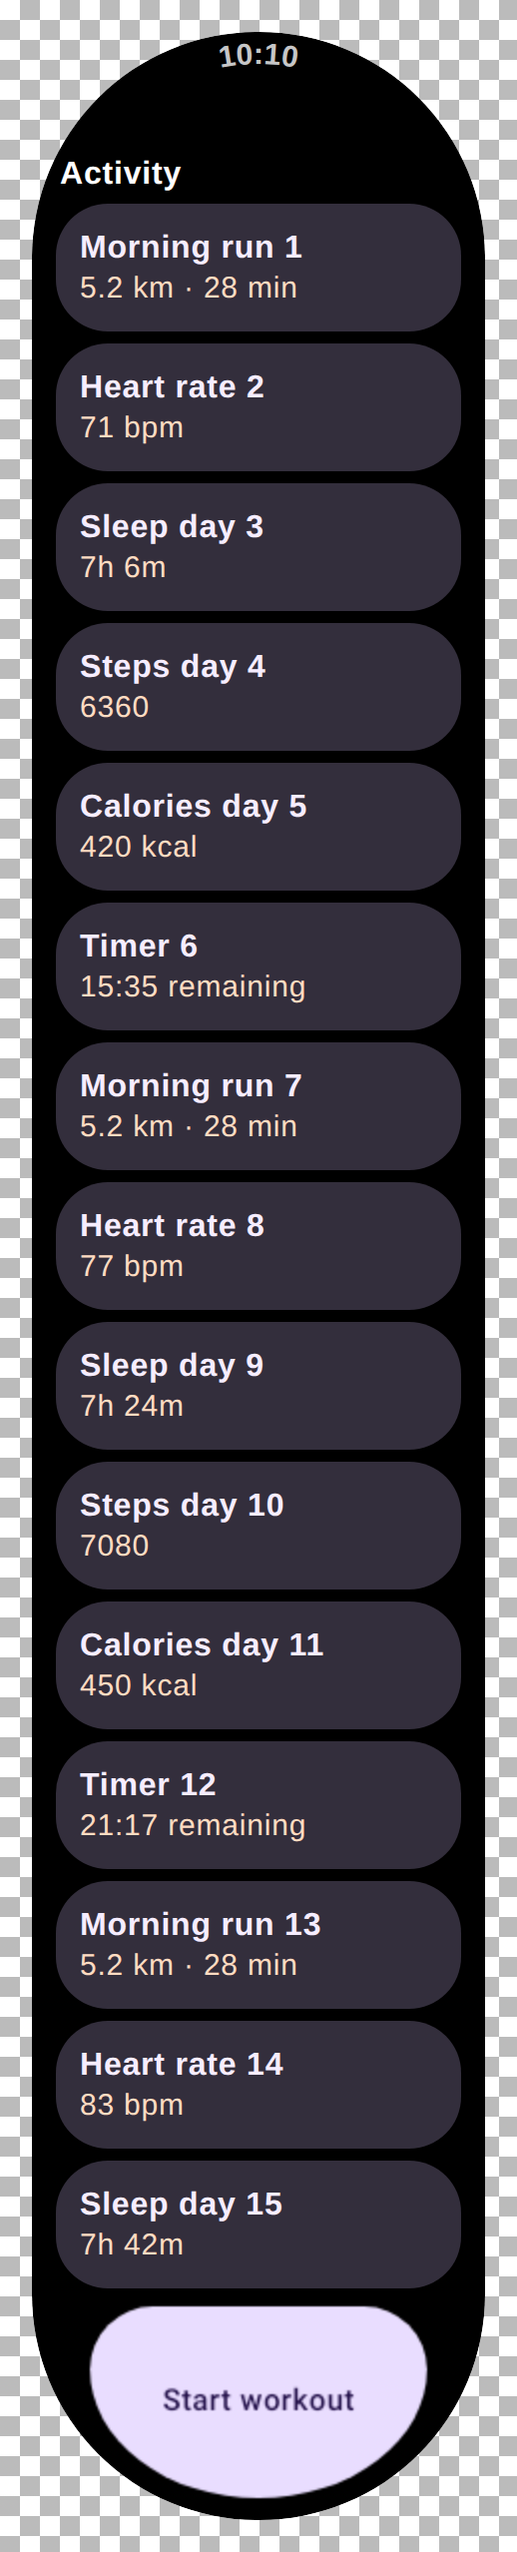
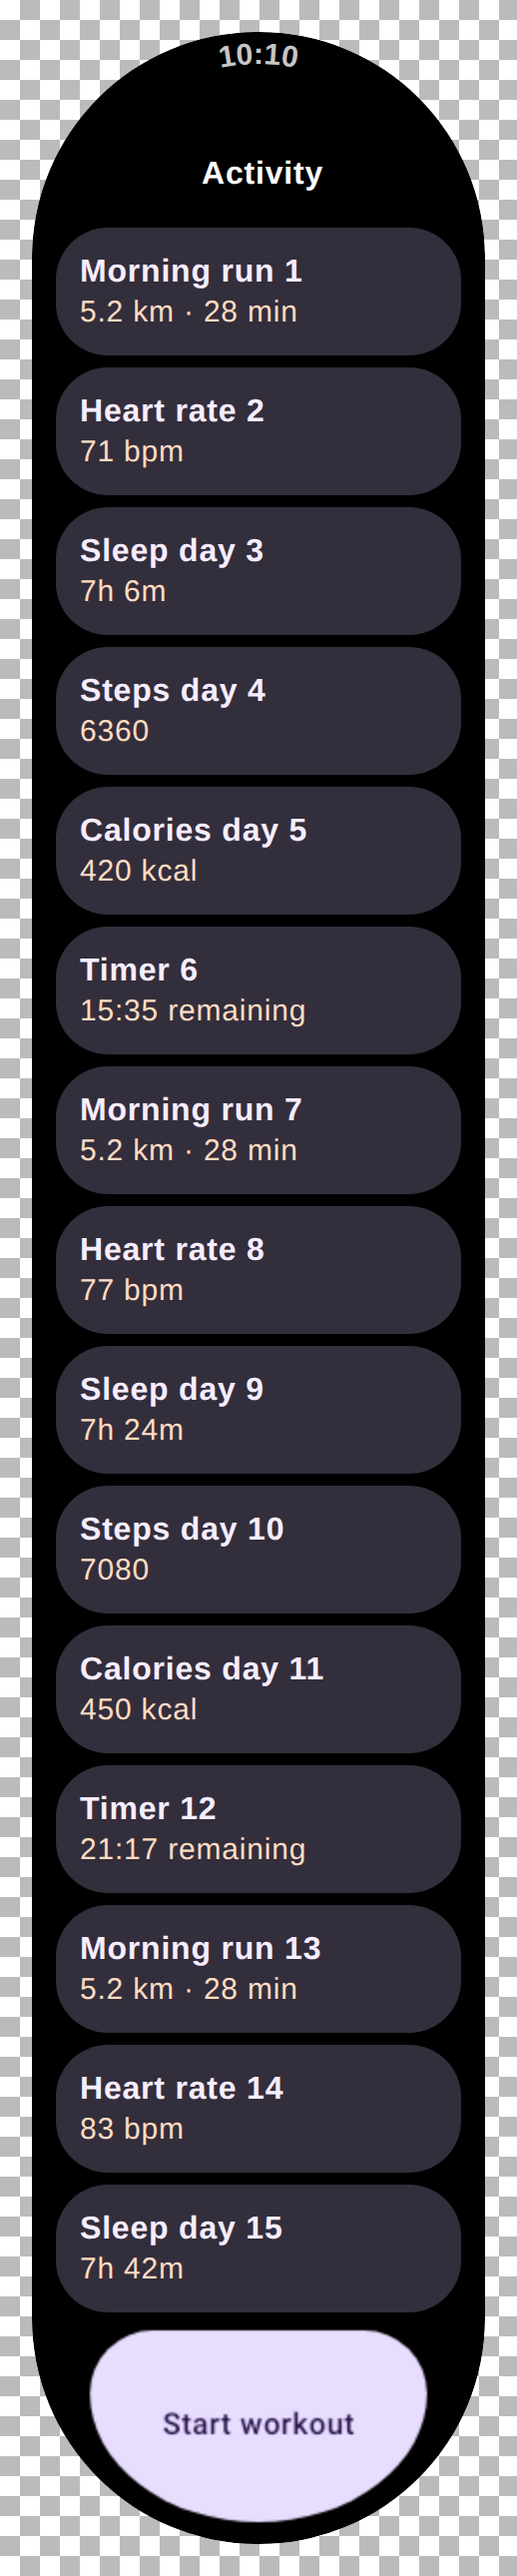
test(wear): capture the ListHeader full-width so it centres like the real screen
A bare ListHeader captured in isolation wraps its content and lands left-aligned,
so the extracted "Activity"/"Settings" header didn't match the real screen (where
the scaffold's TLC item gives it full width and it centres). Capture it in a
full-width box so it centres, matching the rendered ScreenScaffold.

diff --git a/renderers/android/src/test/kotlin/ee/schimke/composeai/renderer/WearScrollSvgGrowthTest.kt b/renderers/android/src/test/kotlin/ee/schimke/composeai/renderer/WearScrollSvgGrowthTest.kt
@@ -437,6 +437,20 @@ class WearScrollSvgGrowthTest {
     return out
   }
 
+  /**
+   * The list header captured full-width, so `ListHeader` centres its text the way the scaffold's
+   * `TransformingLazyColumn` item does — capturing a bare `ListHeader` lets it wrap its content and
+   * land left-aligned, which doesn't match the real screen.
+   */
+  @Composable
+  private fun HeaderPart(title: String) {
+    MaterialTheme {
+      Box(Modifier.width(deviceDp.dp)) {
+        ListHeader(modifier = Modifier.fillMaxWidth()) { Text(title) }
+      }
+    }
+  }
+
   /** A flat, unscaled activity row — the resting look of a `TitleCard`, no fisheye transform. */
   @Composable
   private fun CardPart(title: String, subtitle: String) {
@@ -522,7 +536,7 @@ class WearScrollSvgGrowthTest {
       capturePart("time", frameHeightDp = deviceDp) {
         MaterialTheme { TimeText(timeSource = FixedTime) }
       }
-    val header = capturePart("header") { MaterialTheme { ListHeader { Text("Activity") } } }
+    val header = capturePart("header") { HeaderPart("Activity") }
     val cards =
       activities.mapIndexed { i, (title, subtitle) ->
         capturePart("card-$i") { CardPart(title, subtitle) }
@@ -570,7 +584,7 @@ class WearScrollSvgGrowthTest {
       capturePart("nb-time", frameHeightDp = deviceDp) {
         MaterialTheme { TimeText(timeSource = FixedTime) }
       }
-    val header = capturePart("nb-header") { MaterialTheme { ListHeader { Text("Activity") } } }
+    val header = capturePart("nb-header") { HeaderPart("Activity") }
     val cards =
       activities.take(6).mapIndexed { i, (title, subtitle) ->
         capturePart("nb-card-$i") { CardPart(title, subtitle) }
@@ -618,7 +632,7 @@ class WearScrollSvgGrowthTest {
       capturePart("col-time", frameHeightDp = deviceDp) {
         MaterialTheme { TimeText(timeSource = FixedTime) }
       }
-    val header = capturePart("col-header") { MaterialTheme { ListHeader { Text("Settings") } } }
+    val header = capturePart("col-header") { HeaderPart("Settings") }
     val buttons = labels.mapIndexed { i, label -> capturePart("col-btn-$i") { ButtonRow(label) } }
 
     val svg = stackToCapsule("wear-parts-column", listOf(header) + buttons, timeText = timeText)
